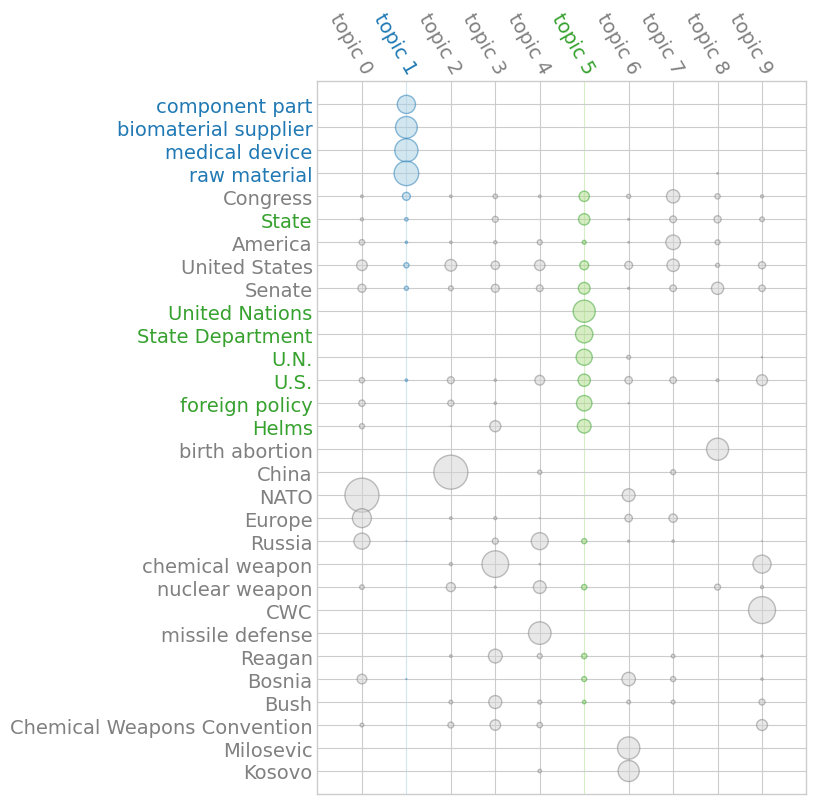
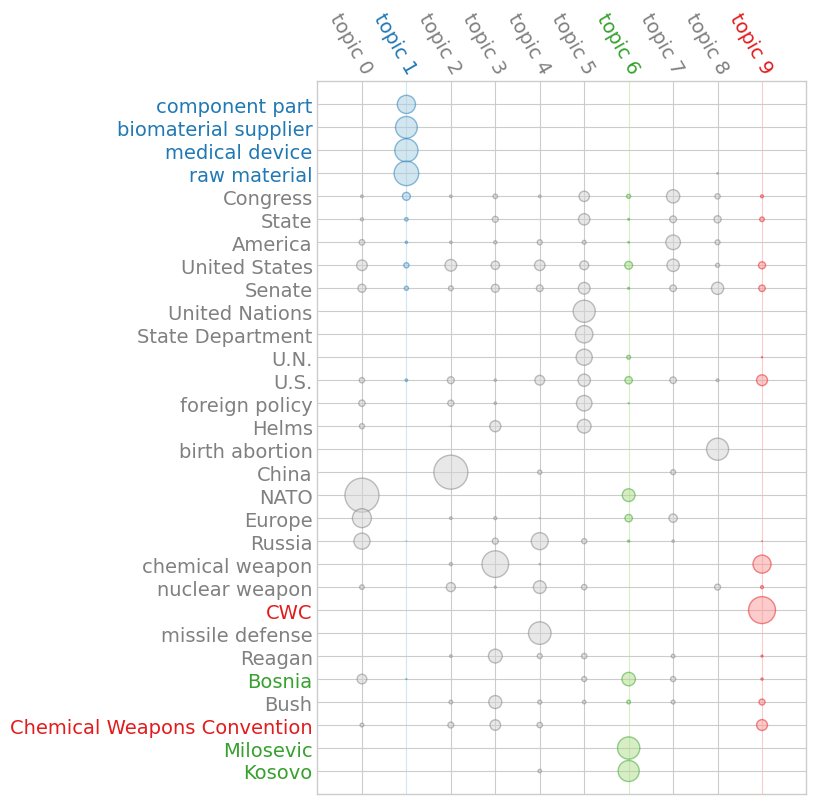
Tweak tutorials and add to index

diff --git a/docs/source/tutorial-2.md b/docs/source/tutorial-2.md
@@ -156,10 +156,10 @@ topic 9: THE URGENT NEED TO OUTLAW POISON GAS   CHEMICAL WEAPONS CONVENTION   EX
 
 At first glance, most of these topics seem relatively interpretable: topic 1 looks to be about medical device manufacturing and liability, topic 6 is focused on the late 90s Kosovo War, topic 9 deals with chemical weapons and related treaties, etc. Seems reasonable!
 
-We can also visualize the relationship between terms and topics using a "termite" plot, where the area of each circle is proportional to a term's weight in a given topic. To aid the eye, we've highlighted a couple topics:
+We can also visualize the relationship between terms and topics using a "termite" plot, where the area of each circle is proportional to a term's weight in a given topic. To aid the eye, we've highlighted those topics called out above:
 
 ```pycon
->>> _ = model.termite_plot(doc_term_matrix, id_to_term, n_terms=30, highlight_topics=[1, 5])
+>>> _ = model.termite_plot(doc_term_matrix, id_to_term, n_terms=30, highlight_topics=[1, 6, 9])
 ```
 
 [doc-term matrix termite plot](_static/doc-term-matrix.png "doc-term matrix termite plot")

diff --git a/docs/source/tutorial-1.md b/docs/source/tutorial-1.md
@@ -1,4 +1,4 @@
-# Context and description of workers in Congress
+# Context and Description of Workers in the U.S. Congress
 
 In this tutorial, we will explore how certain members of the U.S. Congress have spoken about workers, based on a dataset of thousands of speeches sourced from the Congressional Record.
 
@@ -14,7 +14,7 @@ First, let's initialize and download the dataset, which comes built-in with `tex
 >>> dataset.download()
 ```
 
-Each record in the dataset contains the full text of and basic metadata about the speech. Let's take a peek at the first one, to get our bearings:
+Each record in this dataset contains the full text of and basic metadata about the speech. Let's take a peek at the first one, to get our bearings:
 
 ```pycon
 >>> record = next(dataset.records(limit=1))

diff --git a/docs/source/index.rst b/docs/source/index.rst
@@ -62,5 +62,7 @@ contents
 
    installation
    quickstart
+   tutorial-1
+   tutorial-2
    api_reference/root
    changes
